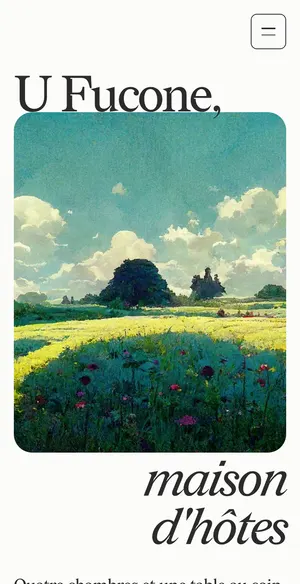
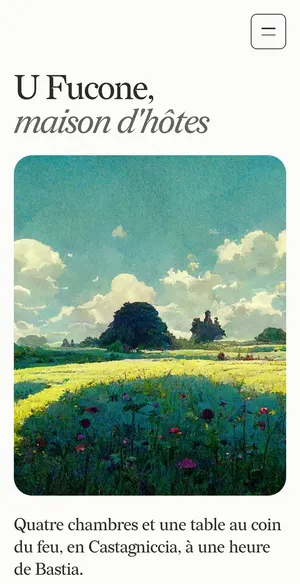
U Fucone : nouvelle ouverture et calendrier allégé
Claude-Session: https://claude.ai/code/session_01Tg9JuPFfiTJrQ2axzwAjp1

diff --git a/demo-u-fucone.html b/demo-u-fucone.html
@@ -63,9 +63,7 @@ figcaption{margin-top:10px;font-size:var(--t-petit);color:var(--cendre);font-fam
 
 /* boutons : l'action principale en contour bleu (8 px), la seconde en contour de nuit ; les liens soulignés avec une flèche */
 .btn{display:inline-flex;align-items:center;justify-content:center;gap:.6em;min-height:46px;padding:10px 18px;border:1px solid var(--nuit);border-radius:var(--r-bouton);background:none;color:var(--nuit);font-size:15px;font-weight:500;text-decoration:none;cursor:pointer;white-space:nowrap;transition:background-color .2s,color .2s,transform .15s}
-.btn.bleu{border-color:var(--bleu);color:var(--bleu-fonce)}
-.btn .rond{display:inline-grid;place-items:center;width:22px;height:22px;border:1px solid currentColor;border-radius:50%;font-size:12px;transition:transform .25s var(--doux)}
-@media (hover:hover) and (pointer:fine){.btn:hover{background:var(--nuit);color:#fff}.btn.bleu:hover{background:var(--bleu);color:#fff}.btn:hover .rond{transform:translateX(3px)}}
+@media (hover:hover) and (pointer:fine){.btn:hover{background:var(--nuit);color:#fff}.btn.plein:hover{background:#34344A}}
 .btn:active{transform:scale(.97)}
 .btn.plein{background:var(--soir);border-color:var(--soir);color:#fff}
 .lien{display:inline-flex;align-items:center;gap:.4em;min-height:44px;text-decoration:underline;text-decoration-thickness:1px;text-underline-offset:.3em;text-decoration-color:var(--brume);transition:text-decoration-color .2s}
@@ -77,7 +75,7 @@ figcaption{margin-top:10px;font-size:var(--t-petit);color:var(--cendre);font-fam
 /* ---- en-tête classique : le nom et sa flamme, quatre liens, l'action ---- */
 .top{display:flex;align-items:center;justify-content:flex-end;gap:24px;padding-block:18px}
 .top nav{margin-right:auto}
-.top nav .reserver{margin-left:auto}
+.top nav .reserver{margin-left:auto;color:var(--graphite);text-decoration:underline;text-underline-offset:.35em;text-decoration-color:var(--bleu)}
 .top nav{flex:1;display:flex;align-items:center;gap:28px;font-size:15px;font-weight:500;color:var(--charbon)}
 .top nav a:not(.btn){text-decoration:none;padding:10px 0}
 @media (hover:hover) and (pointer:fine){.top nav a:hover{color:var(--encre);text-decoration:underline;text-underline-offset:.35em;text-decoration-color:var(--brume)}}
@@ -101,15 +99,12 @@ figcaption{margin-top:10px;font-size:var(--t-petit);color:var(--cendre);font-fam
 
 /* ---- ouverture « fenêtre » : le tableau du pré dans un grand cadre arrondi, le nom réparti de part et d'autre ---- */
 .ouverture{padding-top:clamp(12px,3vw,40px)}
-.fenetre-h{--F:clamp(3rem,1rem + 7.4vw,8.25rem);position:relative;display:grid;grid-template-columns:minmax(0,1fr) minmax(0,5.2fr) minmax(0,1fr);align-items:center;margin-top:calc(var(--F) * .78);margin-bottom:calc(var(--F) * 1.15)}
-.fenetre-h .tableau{grid-column:2;grid-row:1;aspect-ratio:16/9;max-height:68svh}
-.fenetre-h h1{display:contents}
-.fenetre-h h1 span{font-size:var(--F);line-height:.95;letter-spacing:-.045em;position:relative;z-index:2;grid-row:1}
-/* le nom pose ses pieds sur le bord haut du tableau, dans le ciel ; « maison d'hôtes » est tout entier dessous : rien de foncé sur le pré */
-.fenetre-h h1 .g{grid-column:1/3;justify-self:start;align-self:start;transform:translateY(-80%)}
-.fenetre-h h1 .d{grid-column:2/4;justify-self:end;align-self:end;transform:translateY(98%)}
-.ouverture .dessous{margin-top:clamp(28px,3vw,48px);display:grid;grid-template-columns:minmax(0,1.3fr) minmax(0,1fr);gap:24px 64px;align-items:end}
-.ouverture .dessous .actions{display:flex;flex-wrap:wrap;gap:12px 24px;align-items:center;justify-content:flex-end}
+/* le nom sur une ligne, au-dessus ; le tableau en grand dessous, sur toute la largeur de la page : rien n'est posé dessus */
+.fenetre-h h1{display:flex;flex-wrap:wrap;align-items:baseline;gap:0 .3em;font-size:clamp(2.8rem,1rem + 6vw,7rem);line-height:.98;letter-spacing:-.045em;margin-bottom:clamp(20px,2.4vw,36px)}
+.fenetre-h h1 em{color:var(--cendre)}
+.fenetre-h .tableau{display:block;width:100%;aspect-ratio:21/10;max-height:72svh;object-position:50% 60%}
+.ouverture .dessous{margin-top:clamp(24px,2.6vw,40px)}
+.ouverture .dessous .phrase{max-width:40ch}
 
 .sec{padding-top:var(--entre)}
 /* en-tête de section : le titre sur une ligne, son texte d'introduction juste dessous, sur la même marge */
@@ -186,20 +181,23 @@ figcaption{margin-top:10px;font-size:var(--t-petit);color:var(--cendre);font-fam
 
 /* ---- l'idée : le calendrier des dates libres, mois par mois, et la page du carnet qui s'écrit ---- */
 .sejour{display:grid;grid-template-columns:minmax(0,1.15fr) minmax(0,1fr);gap:clamp(28px,4vw,56px);align-items:start}
-.mois,.qui{display:flex;flex-wrap:wrap;gap:8px}
-.mois button,.qui button{min-height:44px;padding:8px 14px;border:1px solid var(--brume);border-radius:var(--r-bouton);background:var(--papier);cursor:pointer;font-size:15px;font-weight:500;color:var(--charbon);transition:border-color .2s,background-color .2s,color .2s}
-.mois button[aria-pressed="true"],.qui button[aria-pressed="true"]{border-color:var(--nuit);background:var(--nuit);color:#fff}
-@media (hover:hover) and (pointer:fine){.mois button:not([aria-pressed="true"]):hover,.qui button:not([aria-pressed="true"]):hover{border-color:var(--nuit)}}
-.choix-chambre{margin-top:14px}
+/* le mois et la chambre : une ligne de mots ; le choisi en encre, souligné de bleu, les autres en retrait */
+.mois,.qui{display:flex;flex-wrap:wrap;gap:2px 22px}
+.mois button,.qui button{min-height:44px;padding:4px 0;border:0;background:none;cursor:pointer;font-family:var(--serif);font-size:1.3rem;letter-spacing:-.015em;color:#9A9D9A;text-decoration:underline;text-decoration-color:transparent;text-decoration-thickness:1px;text-underline-offset:.3em;transition:color .2s,text-decoration-color .2s}
+.mois button[aria-pressed="true"],.qui button[aria-pressed="true"]{color:var(--graphite);text-decoration-color:var(--bleu)}
+@media (hover:hover) and (pointer:fine){.mois button:not([aria-pressed="true"]):hover,.qui button:not([aria-pressed="true"]):hover{color:var(--graphite)}}
+.qui{padding-top:6px;border-top:1px solid var(--brume)}
+.choix-chambre{margin-top:10px}
 .cal{margin-top:20px;background:var(--papier);border:1px solid var(--brume);border-radius:var(--r-carte);padding:18px}
 .cal .jours{display:grid;grid-template-columns:repeat(7,minmax(0,1fr));gap:4px;text-align:center}
 .cal .jours .nom{font-size:12px;color:var(--cendre);padding-bottom:6px}
-.cal .jours button{aspect-ratio:1;min-height:40px;border:0;border-radius:6px;background:none;cursor:pointer;font-size:15px;font-variant-numeric:tabular-nums;color:var(--graphite);position:relative}
-.cal .jours button.libre{background:var(--lin);box-shadow:inset 0 0 0 1px var(--brume)}
+.cal .jours{justify-items:center}
+.cal .jours button{width:min(100%,46px);aspect-ratio:1;min-height:40px;border:0;border-radius:50%;background:none;cursor:pointer;font-size:15px;font-variant-numeric:tabular-nums;color:var(--graphite);position:relative}
+.cal .jours button.libre{font-weight:500}
 .cal .jours button.pris{color:#B8BCB8;text-decoration:line-through;cursor:not-allowed}
-.cal .jours button.dans{background:#E3F1F8;box-shadow:none}
-.cal .jours button.bout{background:var(--bleu);color:#fff;box-shadow:none}
-@media (hover:hover) and (pointer:fine){.cal .jours button.libre:hover{box-shadow:inset 0 0 0 1px var(--bleu)}}
+.cal .jours button.dans{background:#E3F1F8;border-radius:0}
+.cal .jours button.bout{background:var(--bleu);color:#fff;border-radius:50%}
+@media (hover:hover) and (pointer:fine){.cal .jours button.libre:hover{box-shadow:inset 0 0 0 1px var(--bleu);border-radius:50%}}
 .cal .legende{margin-top:14px;display:flex;flex-wrap:wrap;gap:6px 18px;font-size:13px;color:var(--cendre)}
 .cal .legende i{display:inline-block;width:12px;height:12px;border-radius:3px;margin-right:6px;vertical-align:-1px;background:var(--lin);box-shadow:inset 0 0 0 1px var(--brume)}
 .cal .legende i.p{background:none;box-shadow:none;border-bottom:1px solid #B8BCB8;border-radius:0;height:7px}
@@ -232,8 +230,6 @@ footer .legal span{max-width:80ch}
 @media (max-width:1000px){
   .top nav,.top .reserver{display:none}
   .top .menu{display:grid}
-  .ouverture .dessous{grid-template-columns:minmax(0,1fr)}
-  .ouverture .dessous .actions{justify-content:flex-start}
   .compris{grid-template-columns:repeat(2,minmax(0,1fr))}
   .compris li:not(:nth-child(3n+1)){padding-left:0;border-left:0}
   .compris li:nth-child(2n){padding-left:24px;border-left:1px solid var(--brume)}
@@ -255,11 +251,9 @@ footer .legal span{max-width:80ch}
   .scene .fl{width:44px;height:44px;margin-top:0;top:14px}
   .scene .fl.g{left:10px}.scene .fl.d{right:10px}
   .scene .points{right:auto;left:50%;transform:translateX(-50%);bottom:auto;top:30px}
-  .fenetre-h{grid-template-columns:minmax(0,1fr);margin-block:0}
-  .fenetre-h .tableau{grid-column:1!important;grid-row:2;aspect-ratio:4/5;max-height:none;object-position:42% 50%}
-  .fenetre-h h1 span{grid-column:1!important;font-size:clamp(3.4rem,17vw,5rem)}
-  .fenetre-h h1 .g{grid-row:1;margin:0 0 -.17em;justify-self:start;transform:none}
-  .fenetre-h h1 .d{grid-row:3;margin:.08em 0 0;justify-self:end;transform:none;text-align:right}
+  .fenetre-h h1{display:block}
+  .fenetre-h h1 em{display:block}
+  .fenetre-h .tableau{aspect-ratio:4/5;max-height:none;object-position:42% 50%}
   .compris{grid-template-columns:minmax(0,1fr)}
   .compris li,.compris li:nth-child(2n){padding:22px 0;border-left:0}
   .table .petitdej{grid-template-columns:minmax(0,1fr)}
@@ -277,7 +271,7 @@ footer .legal span{max-width:80ch}
 
 <div class="page">
   <header class="top" id="haut">
-    <nav aria-label="Sections"><a href="#chambres">Les chambres</a><a href="#table">La table</a><a href="#maison">La maison</a><a href="#autour">Autour</a><a class="btn bleu reserver" href="#sejour">Vos dates <span class="rond" aria-hidden="true">→</span></a></nav>
+    <nav aria-label="Sections"><a href="#chambres">Les chambres</a><a href="#table">La table</a><a href="#maison">La maison</a><a href="#autour">Autour</a><a class="reserver" href="#sejour">Vos dates</a></nav>
     <button class="menu" type="button" id="menuBtn" aria-expanded="false" aria-controls="feuille" aria-label="Ouvrir le menu"><span class="traits" aria-hidden="true"></span></button>
   </header>
 </div>
@@ -286,18 +280,17 @@ footer .legal span{max-width:80ch}
   <div class="top"><span></span><button class="menu ouvert" type="button" id="closeBtn" aria-label="Fermer le menu"><span class="traits" aria-hidden="true"></span></button></div>
   <nav aria-label="Menu"><a href="#chambres">Les chambres</a><a href="#table">La table</a><a href="#maison">La maison</a><a href="#autour">Autour</a><a href="#sejour">Vos dates</a></nav>
   <p class="infos-menu"><b>Maison d'hôtes en Castagniccia</b>Quatre chambres, petit-déjeuner compris.<br>Ouvert toute l'année sauf en janvier.</p>
-  <div class="bas"><a class="btn" href="tel:+33495000000">Appeler</a><a class="btn bleu" href="#sejour">Vos dates</a></div>
+  <div class="bas"><a class="btn" href="tel:+33495000000">Appeler</a><a class="btn plein" href="#sejour">Vos dates</a></div>
 </div>
 
 <main>
   <section class="page ouverture" id="ouverture" aria-labelledby="t-nom">
     <div class="fenetre-h">
-      <h1 id="t-nom"><span class="g">U&nbsp;Fucone,</span><span class="d"><em>maison d'hôtes</em></span></h1>
+      <h1 id="t-nom"><span>U&nbsp;Fucone,</span> <em>maison d'hôtes</em></h1>
       <img class="tableau" src="images/fucone/pre.webp" alt="Un pré fleuri sous un grand ciel d'été, des arbres sombres au loin (illustration)" width="1280" height="720" fetchpriority="high" decoding="async">
     </div>
     <div class="dessous">
       <p class="phrase">Quatre chambres et une table au coin du feu, en Castagniccia, à une heure de Bastia.</p>
-      <div class="actions"><a class="lien" href="#chambres">Voir les chambres</a><a class="btn bleu" href="#sejour">Choisir vos dates <span class="rond" aria-hidden="true">→</span></a></div>
     </div>
   </section>
 
@@ -411,7 +404,7 @@ footer .legal span{max-width:80ch}
         <div class="mois" id="mois" role="group" aria-label="Mois"></div>
         <div class="qui choix-chambre" id="qui" role="group" aria-label="Chambre"></div>
         <div class="cal"><div class="jours" id="jours"></div>
-          <p class="legende"><span><i></i>libre</span><span><i class="p"></i>déjà pris</span><span>Fermé en janvier</span></p></div>
+          <p class="legende"><span>Les jours barrés sont déjà pris.</span><span>Fermé en janvier.</span></p></div>
       </div>
       <div class="carnet" id="carnet">
         <p class="date" id="cDate">Votre séjour</p>
@@ -420,7 +413,7 @@ footer .legal span{max-width:80ch}
         <form id="cForm" hidden novalidate>
           <label for="cNom">Votre prénom<input id="cNom" autocomplete="given-name"></label>
           <label for="cTel">Téléphone ou e-mail<input id="cTel" autocomplete="email"></label>
-          <button class="btn bleu" type="submit">Demander ces dates <span class="rond" aria-hidden="true">→</span></button>
+          <button class="btn plein" type="submit">Demander ces dates</button>
         </form>
         <p class="merci" id="cMerci" aria-live="polite"></p>
       </div>
@@ -440,7 +433,7 @@ footer .legal span{max-width:80ch}
   </div>
 </footer>
 
-<nav class="dock" id="dock" aria-label="Accès rapide"><a class="btn" href="tel:+33495000000">Appeler</a><a class="btn bleu" href="#sejour">Vos dates</a></nav>
+<nav class="dock" id="dock" aria-label="Accès rapide"><a class="btn" href="tel:+33495000000">Appeler</a><a class="btn plein" href="#sejour">Vos dates</a></nav>
 
 <script>
 const $ = id => document.getElementById(id);
